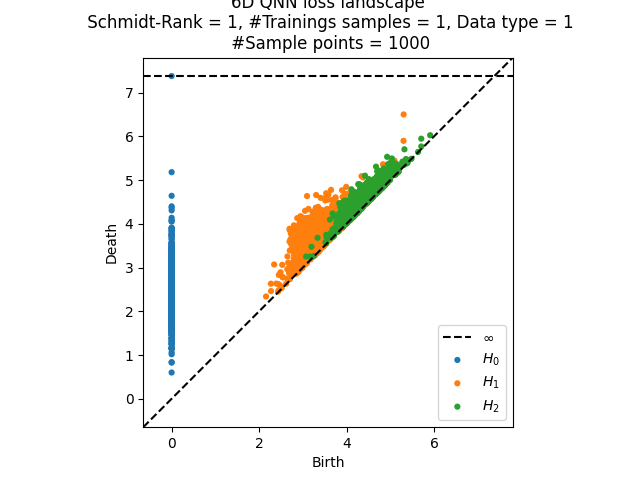
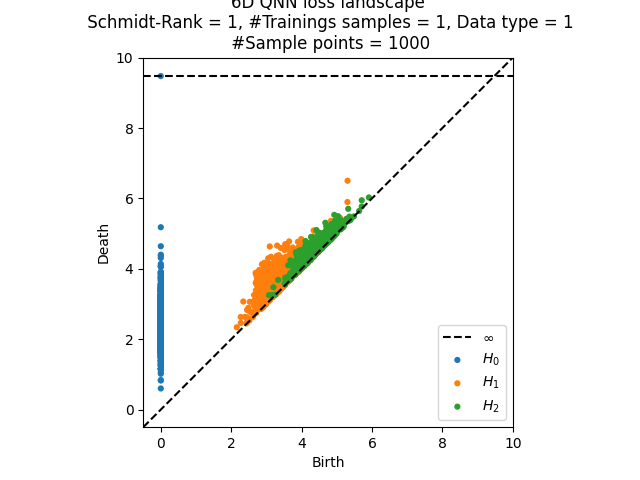
new linear transformation test

diff --git a/src/FP_initial_test.py b/src/FP_initial_test.py
@@ -5,7 +5,7 @@ from ripser import ripser
 from persim import plot_diagrams
 import os
 from matplotlib import pyplot as plt
-from utils.resources import unitary, inputs_list
+from utils.resources import unitary, inputs_list, unitary_2, unitary_5, inputs_79, inputs_241
 from qnn.qnn_cost_func import CostFunction
 from utils.sampling_utils import get_uniformly_random_samples, get_latin_hypercube_samples
 from scipy.stats import qmc
@@ -24,9 +24,11 @@ FD = {0: [25.954254, 28.435707, 31.539053, 18.779341, 25.873669],
 SC_avg_abs = {0: [0.004842119076112458, 0.0057642863343205, 0.007033948578070575, 0.003624772714807306, 0.008251599227975822],
       15: [0.0015106698578506775, 0.0010675523778842504, 0.00131834851764826, 0.0011552698634541118, 0.0016972122978039436]}
 
-
-
 u_6D = np.asarray(unitary, dtype=complex)
+u_6D_2 = np.asarray(unitary_2, dtype=complex)
+u_6D_5 = np.asarray(unitary_5, dtype=complex)
+in_79 = np.asarray(inputs_79, dtype=complex)
+in_241 = np.asarray(inputs_241, dtype=complex)
 #6D QNN cost function: Schmidt Rank 1, num data points 
 
 def get_conf_id(s_rank, num_data_points, data_type):
@@ -55,14 +57,18 @@ def generate_landscape(unitary=u_6D, s_rank=1, num_data_points=1, data_type=1, n
       landscape.append(data_point)
   return np.asarray(landscape, dtype=np.float32)
 
-def generate_landscape_from_sample_points(sample_points, unitary=u_6D, s_rank=1, num_data_points=1, data_type=1, random=True, transform_loss=False, min=0, max=1): #TODO: Signatur anpassen, damit sie zur andere Funktion passt
+def generate_landscape_from_sample_points(sample_points, unitary=u_6D, s_rank=1, num_data_points=1, data_type=1, inputs =None, random=True, transform_loss=False, min=0, max=1): #TODO: Signatur anpassen, damit sie zur andere Funktion passt
   num_qubits=2
   dim = 3*num_qubits
   config_id = get_conf_id(s_rank, num_data_points, data_type)
-  print(config_id)
-  print("Config ID", config_id, " ----- ", "Schmidt rank: ", s_rank, "  Number of data points: ", num_data_points, "  data type: ", data_type)
-  x = np.asarray(inputs_list[config_id],dtype=complex)
-  loss_func = CostFunction(num_qubits=num_qubits, unitary=u_6D, inputs=x)
+  #print(config_id)
+  #print("Config ID", config_id, " ----- ", "Schmidt rank: ", s_rank, "  Number of data points: ", num_data_points, "  data type: ", data_type)
+  if inputs is None:
+    x = np.asarray(inputs_list[config_id],dtype=complex)
+  else:
+    print("inputs")
+    x = inputs
+  loss_func = CostFunction(num_qubits=num_qubits, unitary=unitary, inputs=x)
   landscape = []
   landscape_limit = 2 * np.pi
   landscape = []
@@ -158,7 +164,30 @@ def scikit_tda_test(min=0, max=1):
   elapsed_time = datetime.now()-start
   print("elapsed time", elapsed_time)
   title=f"6D QNN loss landscape\n Schmidt-Rank = {s}, #Trainings samples = {ndp}, Data type = {dt}\n #Sample points = {nsp}"
-  plot_diagrams(diagrams, show=True, title=title)
+  a = plot_diagrams(diagrams, show=False, title=title)
+  print(diagrams)
+
+def scikit_tda_test2(min=0, max=1):
+  start = datetime.now()
+  print("Start time", start.strftime('%Y-%m-%d %H:%M:%S'))
+  # config 79 (victors numbering)
+  s = 1
+  ndp = 1
+  dt = 1
+  dim=6
+  #landscape = generate_landscape(s_rank=s, num_data_points=ndp, data_type=dt, num_sample_points=nsp)
+  with open("resources/sample_points_1000_6D_0_2pi.json") as f:
+    sample_points =  json.load(f)
+  nsp = len(sample_points)
+  landscape = generate_landscape_from_sample_points(sample_points=sample_points, s_rank=s, num_data_points=1, transform_loss=True, min=min, max=max)
+  print(datetime.now().strftime('%Y-%m-%d %H:%M:%S'), "Generating loss landscape: DONE")
+  diagrams = ripser(landscape, maxdim=2)['dgms']
+  # Time
+  elapsed_time = datetime.now()-start
+  print("elapsed time", elapsed_time)
+  title=f"6D QNN loss landscape\n Schmidt-Rank = {s}, #Trainings samples = {ndp}, Data type = {dt}\n #Sample points = {nsp}"
+  plot_diagrams(diagrams, show=True, title=title, xy_range = [-0.5,10, -0.5, 10])
+
 
 
 
@@ -172,4 +201,4 @@ if __name__ == "__main__":
   # print("Uniform Discrepancy: ", qmc.discrepancy(s2))
 
 
-  scikit_tda_test()
+  scikit_tda_test2(min=50, max=100)

diff --git a/src/utils/resources.py b/src/utils/resources.py
@@ -4,6 +4,12 @@
 unitary = [[-0.45070455-0.02711853j,0.78437395-0.06613086j,0.06358678+0.19963393j,-0.07343613+0.35668523j],[-0.01890143-0.03813363j,0.32408202+0.25557629j,0.05872864-0.68979805j,0.55466693-0.20227297j],[-0.11215405+0.64023111j,-0.13344055+0.29565494j,-0.49012687-0.19046288j,-0.04241254+0.44046348j],[0.55771659+0.24656916j,0.31851997-0.05798805j,0.28761525-0.34294258j,-0.56718418+0.03616933j]]
 unitary_3D = [[-0.17788477+0.51811657j,-0.48702982+0.68023098j],[-0.73139693-0.40616594j,0.38261007+0.39204248j]]
 
+unitary_2 = [[-0.56303964-0.00798273j,-0.21670212-0.15784972j,-0.06047197-0.73952673j,-0.01438004+0.24552571j],[-0.06976756+0.23474685j,-0.01275565-0.5435098j,-0.02703657-0.08917885j,-0.08210486-0.79311774j],[-0.38559961+0.10714929j,0.5933431-0.2687392j,-0.24060861+0.29149289j,-0.45147719+0.26241743j],[-0.50180421+0.45931857j,-0.11617175+0.44134496j,0.49642745+0.22684508j,-0.08544628-0.15407063j]]
+unitary_5 = [[-0.24866696+0.58742286j,-0.44704345-0.43151574j,-0.35669027-0.20570733j,-0.10517633+0.1626036j],[0.10596805-0.19687975j,-0.30269685-0.15056416j,0.18246286+0.30440582j,-0.83484447-0.11310748j],[0.26054512-0.52548482j,0.0285017-0.50723956j,-0.43110112+0.17165838j,0.15243271+0.39915801j],[0.42978035+0.11991271j,-0.17224126-0.46030424j,0.6827807-0.15164662j,0.26483638+0.0061855j]]
+
+inputs_241=[[[0.03585039+1.17875485e-01j,0.13341494-1.60922401e-01j,0.0701009+7.22419872e-02j,0.15611823+1.08090520e-02j],[-0.18901685-1.85310505e-01j,-0.08577+4.40832925e-01j,-0.2065845-6.39919672e-02j,-0.30547725+1.40440262e-01j],[0.03731826+7.24227502e-02j,0.06767982-1.20524701e-01j,0.05418001+3.86704224e-02j,0.10284077-1.15066895e-02j],[0.09449571+2.48073320e-01j,0.26297676-3.65638990e-01j,0.1613684+1.44917292e-01j,0.33717812+1.43399889e-04j]]]
+inputs_79=[[[-0.1708511-0.06400426j,0.01837551+0.0974858j,0.19070417-0.1182438j,0.35905485+0.26959266j],[-0.13927439-0.01400248j,-0.1203614-0.07972812j,-0.25274018+0.20347144j,0.16838454+0.25160248j],[-0.19808857-0.29365559j,-0.19051715-0.27770322j,0.13222239-0.00340385j,-0.07217478-0.19783446j],[-0.00423907-0.19117838j,0.14488713+0.24267042j,-0.09845627-0.08495978j,0.05811318+0.17344115j]],[[0.03361648-0.03418479j,-0.09932493-0.15088707j,-0.08076273-0.16061916j,0.16490266-0.02921984j],[-0.14128128+0.29536203j,0.13684229-0.00257121j,0.08223225-0.05322134j,0.05687385+0.41510871j],[-0.00169254+0.15799563j,-0.0158333+0.21808295j,-0.09919029-0.17349504j,0.13953958-0.28311919j],[0.11489518+0.01762811j,0.16730746+0.12769833j,0.06216823+0.20974582j,0.46654439-0.24072714j]],[[-0.0225489+0.08151754j,0.24580736-0.0626617j,0.00250935+0.02984386j,-0.27186257+0.01485929j],[0.05786847-0.13075291j,-0.28320115-0.22236437j,-0.217364+0.29138041j,-0.121271-0.19535514j],[0.00943848-0.13231088j,0.16233824+0.19386678j,0.01846805-0.11498548j,-0.27123462-0.06857299j],[-0.1018954+0.20543822j,0.32375298-0.00442607j,0.11747967+0.39555003j,0.01936134-0.13012331j]],[[0.36874968-0.09847781j,-0.19909541-0.04955339j,0.0929607+0.23886853j,-0.26969418+0.12385977j],[-0.0810078-0.06183058j,0.02206374-0.01696426j,-0.40287255+0.09772611j,0.0656888-0.06673345j],[0.32339595+0.01406964j,-0.0306895-0.0214329j,0.18160909+0.36520004j,-0.20337464-0.05816769j],[0.19113457+0.01080528j,-0.20966673-0.03005595j,0.11296544+0.0860855j,-0.0522209+0.21207763j]]]
+
 #inputs (datapoints) list for 6D cost function
 inputs_list = [
     [[[0.09314128-0.12946863j,0.39382838-0.19799267j,0.05133879+0.12112185j,0.08106995-0.04021906j],[0.07622026-0.09754417j,0.31152873-0.14143589j,0.03608905+0.09551662j,0.06411194-0.02869752j],[0.11804856-0.19626647j,0.54031288-0.32976236j,0.08774511+0.16729872j,0.1112873-0.06711204j],[-0.01827577+0.10086995j,-0.17383409+0.2237231j,-0.06326177-0.05610261j,-0.03593256+0.04574145j]]],
